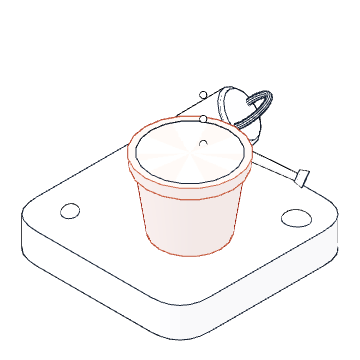
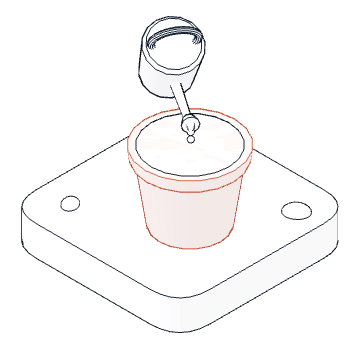
fix: seedling waters the pot from the can's rose (#7)

Changed region(s): [[0.0611, 0.2139, 0.9472, 0.8556], [0.0611, 0.6722, 0.9472, 0.9472], [0.3667, 0.0306, 0.5806, 0.2444]]

diff --git a/examples/seedling.js b/examples/seedling.js
@@ -1,13 +1,14 @@
 /* seedling · a mini in line.
    A terracotta pot full of soil and nothing growing, a watering can beside
-   it. Now and then the can tips and a few drops fall on the soil. Drawn in
-   the line theme, with the pot as the accent. */
+   it. Now and then the can lifts, turns to the pot, tips, and a few drops
+   fall from its rose onto the soil. Drawn in the line theme, with the pot
+   as the accent. */
 Diorama.figure({
   name: 'seedling',
   size: 'mini',
   theme: { base: 'line', accent: '#cf6a4c' },
-  means: 'A pot of soil with nothing growing and a watering can that tips now and then.',
-  hint: 'Wait for the can to tip.',
+  means: 'A pot of soil with nothing growing and a watering can that lifts and waters it now and then.',
+  hint: 'Wait for the can to water the pot.',
   title: 'Pot and can',
   still: 1.6,
   build: function (o) {
@@ -17,24 +18,32 @@ Diorama.figure({
     D.cyl(.6, .46, .95, pal.terracotta, 0, .475, 0, pot, 20);
     D.cyl(.67, .65, .16, pal.terracotta, 0, .95, 0, pot, 20);
     D.cyl(.58, .58, .06, pal.ink, 0, 1.0, 0, pot, 20);
+    // At rest the spout points away from the pot; it turns to face the pot as the can lifts.
     var can = D.group(-.75, 0, -.55); can.rotation.y = .5;
     var body = D.group(0, 0, 0, can);
     D.cyl(.34, .3, .7, pal.steel, 0, .35, 0, body, 16);
     D.cyl(.3, .3, .06, pal.steel, 0, .72, 0, body, 16);
     var spout = D.cyl(.04, .06, .9, pal.steel, .55, .55, 0, body, 8); spout.rotation.z = -1.0;
-    D.cyl(.1, .07, .1, pal.steel, .95, .83, 0, body, 10).rotation.z = -1.0;
+    var rose = D.cyl(.1, .07, .1, pal.steel, .95, .83, 0, body, 10); rose.rotation.z = -1.0;
     var handle = D.torus(.26, .035, pal.steel, 0, .85, 0, body); handle.rotation.y = Math.PI / 2;
-    var drops = []; [0, 1, 2].forEach(function (k) { drops.push(D.ball(.035, pal.sky, 0, 0, 0, null)); });
+    var drops = []; [0, 1, 2, 3].forEach(function (k) { drops.push(D.ball(.035, pal.sky, 0, 0, 0, null)); });
     D.props.rock(.95, -.8, null, { r: .16 }); D.props.rock(-.85, .8, null, { r: .12, yaw: 2 });
-    return { body: body, drops: drops };
+    return { can: can, face: -Math.atan2(.15 + .55, .3 + .75), body: body, rose: rose, drops: drops, nozzle: new o.THREE.Vector3(), soil: 1.03 };
   },
   tick: function (ctx) {
     var D = ctx.D, p = ctx.parts, t = ctx.t;
+    // Lifted off the ground and tipped, so the rose ends up over the pot, above the soil.
     var tip = D.smooth(D.pulse(t, 8, .4));
-    p.body.rotation.z = -.9 * tip; p.body.position.y = .35 * tip; p.body.position.x = .25 * tip;
+    var lift = D.smooth(D.clamp(tip * 1.6, 0, 1));
+    p.can.rotation.y = D.lerp(.5, p.face, lift);
+    p.body.rotation.z = -.55 * tip; p.body.position.y = 1.1 * lift;
+    p.body.updateMatrixWorld(true);
+    var n = p.rose.localToWorld(p.nozzle.set(0, .06, 0)), fall = n.y - p.soil;
     p.drops.forEach(function (d, k) {
-      var u = D.phase(t, .6, k * .33), on = tip > .7;
-      d.visible = on; d.position.set(.05 + u * .35, 1.45 - u * .6, -.3 + u * .35);
+      // Each drop leaves the rose and falls under gravity to the soil, then starts again.
+      var u = D.phase(t, .45, k / p.drops.length);
+      d.visible = tip > .85 && fall > 0;
+      d.position.set(n.x, n.y - fall * u * u, n.z);
     });
   }
 });

diff --git a/README.md b/README.md
@@ -61,8 +61,8 @@ Claude offers two or three concepts, builds the one you choose, checks it in a h
 | **`launchpad`** · a card, in `night`. The rocket waits under floodlights and every so often the arm swings back and it lifts off. | **`server`** · a card, in `mono` with a teal accent. The racks blink in their own rhythms, the fan turns; hover a rack and all its lights come on. |
 | <img src="docs/media/rack.png" alt="An empty three-level pallet rack drawn in greys with yellow beams, a forklift waiting in front, on a rounded base"> | <img src="docs/media/mailbox.png" alt="A coral letterbox on a wooden post, door open and empty, a small tree, a fence and a rock beside it, on a grass tile"> |
 | **`rack`** · a card, in `mono` with the beams' yellow as the one accent. Hover a level and the forks go to it. | **`mailbox`** · a mini. The flag lifts every few seconds to check, finds nothing, settles. |
-| <img src="docs/media/seedling.png" alt="A line drawing of a terracotta pot full of soil and a watering can beside it, on a rounded tile"> | <img src="docs/media/desk.png" alt="A line drawing of a desk with a lamp, an empty tray, a mug and a swivel chair, on a rounded tile"> |
-| **`seedling`** · a mini, in `line` with the pot as the accent. The can tips now and then. | **`desk`** · a mini, in `line` with a coral accent. The chair swivels, the lamp nods. |
+| <img src="docs/media/seedling.png" alt="A line drawing of a terracotta pot full of soil and a watering can lifted over it, drops falling from its rose onto the soil, on a rounded tile"> | <img src="docs/media/desk.png" alt="A line drawing of a desk with a lamp, an empty tray, a mug and a swivel chair, on a rounded tile"> |
+| **`seedling`** · a mini, in `line` with the pot as the accent. Now and then the can lifts, turns to the pot and waters the soil. | **`desk`** · a mini, in `line` with a coral accent. The chair swivels, the lamp nods. |
 | <img src="docs/media/powder.png" alt="An isometric ski village at the foot of a snowy mountain: a chairlift up the slope, chalets with lit windows, a hotel, pines, a frozen pond and a shuttle bus"> | <img src="docs/media/turntable.png" alt="A line drawing of a record player on a low cabinet with a speaker and an empty crate, the platter mat in purple, on a rounded tile"> |
 | **`powder`** · a hero. Chairs climb the slope, two skiers ride up and carve back down, a ski class snakes the nursery, the shuttle waits at the lift. | **`turntable`** · a mini, in `line` with a purple accent. Now and then the arm swings over, finds no record and goes back. |
 
@@ -155,7 +155,7 @@ node ~/.claude/skills/diorama/scripts/look.mjs mailbox.js             # the shee
 - `examples/server.js`: a card in `mono` with a teal accent. Three racks that blink in their own rhythms, a cooling unit, a technician; hover a rack and its lights all come on.
 - `examples/rack.js`: a card in `mono` with one accent. A bare rack, a forklift whose forks rise and settle; hover a level and the forks go there.
 - `examples/mailbox.js`: a mini. A letterbox on a post, door open, a fence, a tree and a rock; the flag checks now and then.
-- `examples/seedling.js`: a mini in `line`. A pot of soil and a watering can that tips now and then.
+- `examples/seedling.js`: a mini in `line`. A pot of soil and a watering can that lifts, turns to the pot and waters it now and then.
 - `examples/desk.js`: a mini in `line` with a coral accent. A desk with a lamp, an empty tray and a mug; the chair swivels.
 - `examples/powder.js`: a hero. A ski village under a snowy peak: a chairlift on a loop, two skiers who ride up and ski down in turns, a ski class, a shuttle bus, a skater on the pond, smoking chimneys.
 - `examples/turntable.js`: a mini in `line` with a purple accent. A record player and an empty crate; the tonearm looks for a record now and then.
